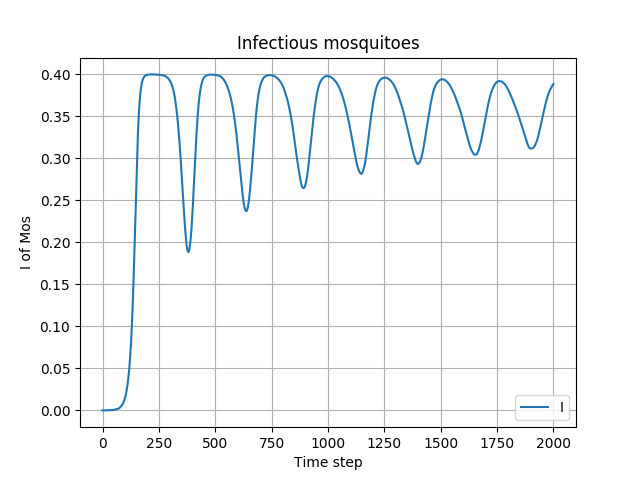
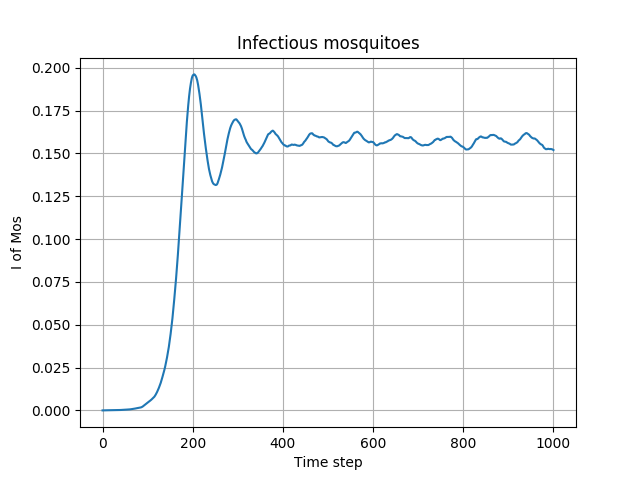
without G(t)

diff --git a/main.py b/main.py
@@ -28,7 +28,7 @@ R = 2
 beta_M_H = 0.89
 beta_H_M = 0.20
 lambda_E_I = 1/12
-lambda_I_R = 1/200
+lambda_I_R = 1/20
 lambda_R_S = 1/30
 
 bite_per_day = 1/3
@@ -56,7 +56,7 @@ num_of_recovery.append(population.R_size)
 mosI.append(mos.I)
 
 # simulation start
-while population.I_size != population.N_size and (population.I_size + population.E_size) != 0 and time < 2000:
+while population.I_size != population.N_size and (population.I_size + population.E_size) != 0 and time < 1000:
 
     # update mosquito
     mos.update(population)
